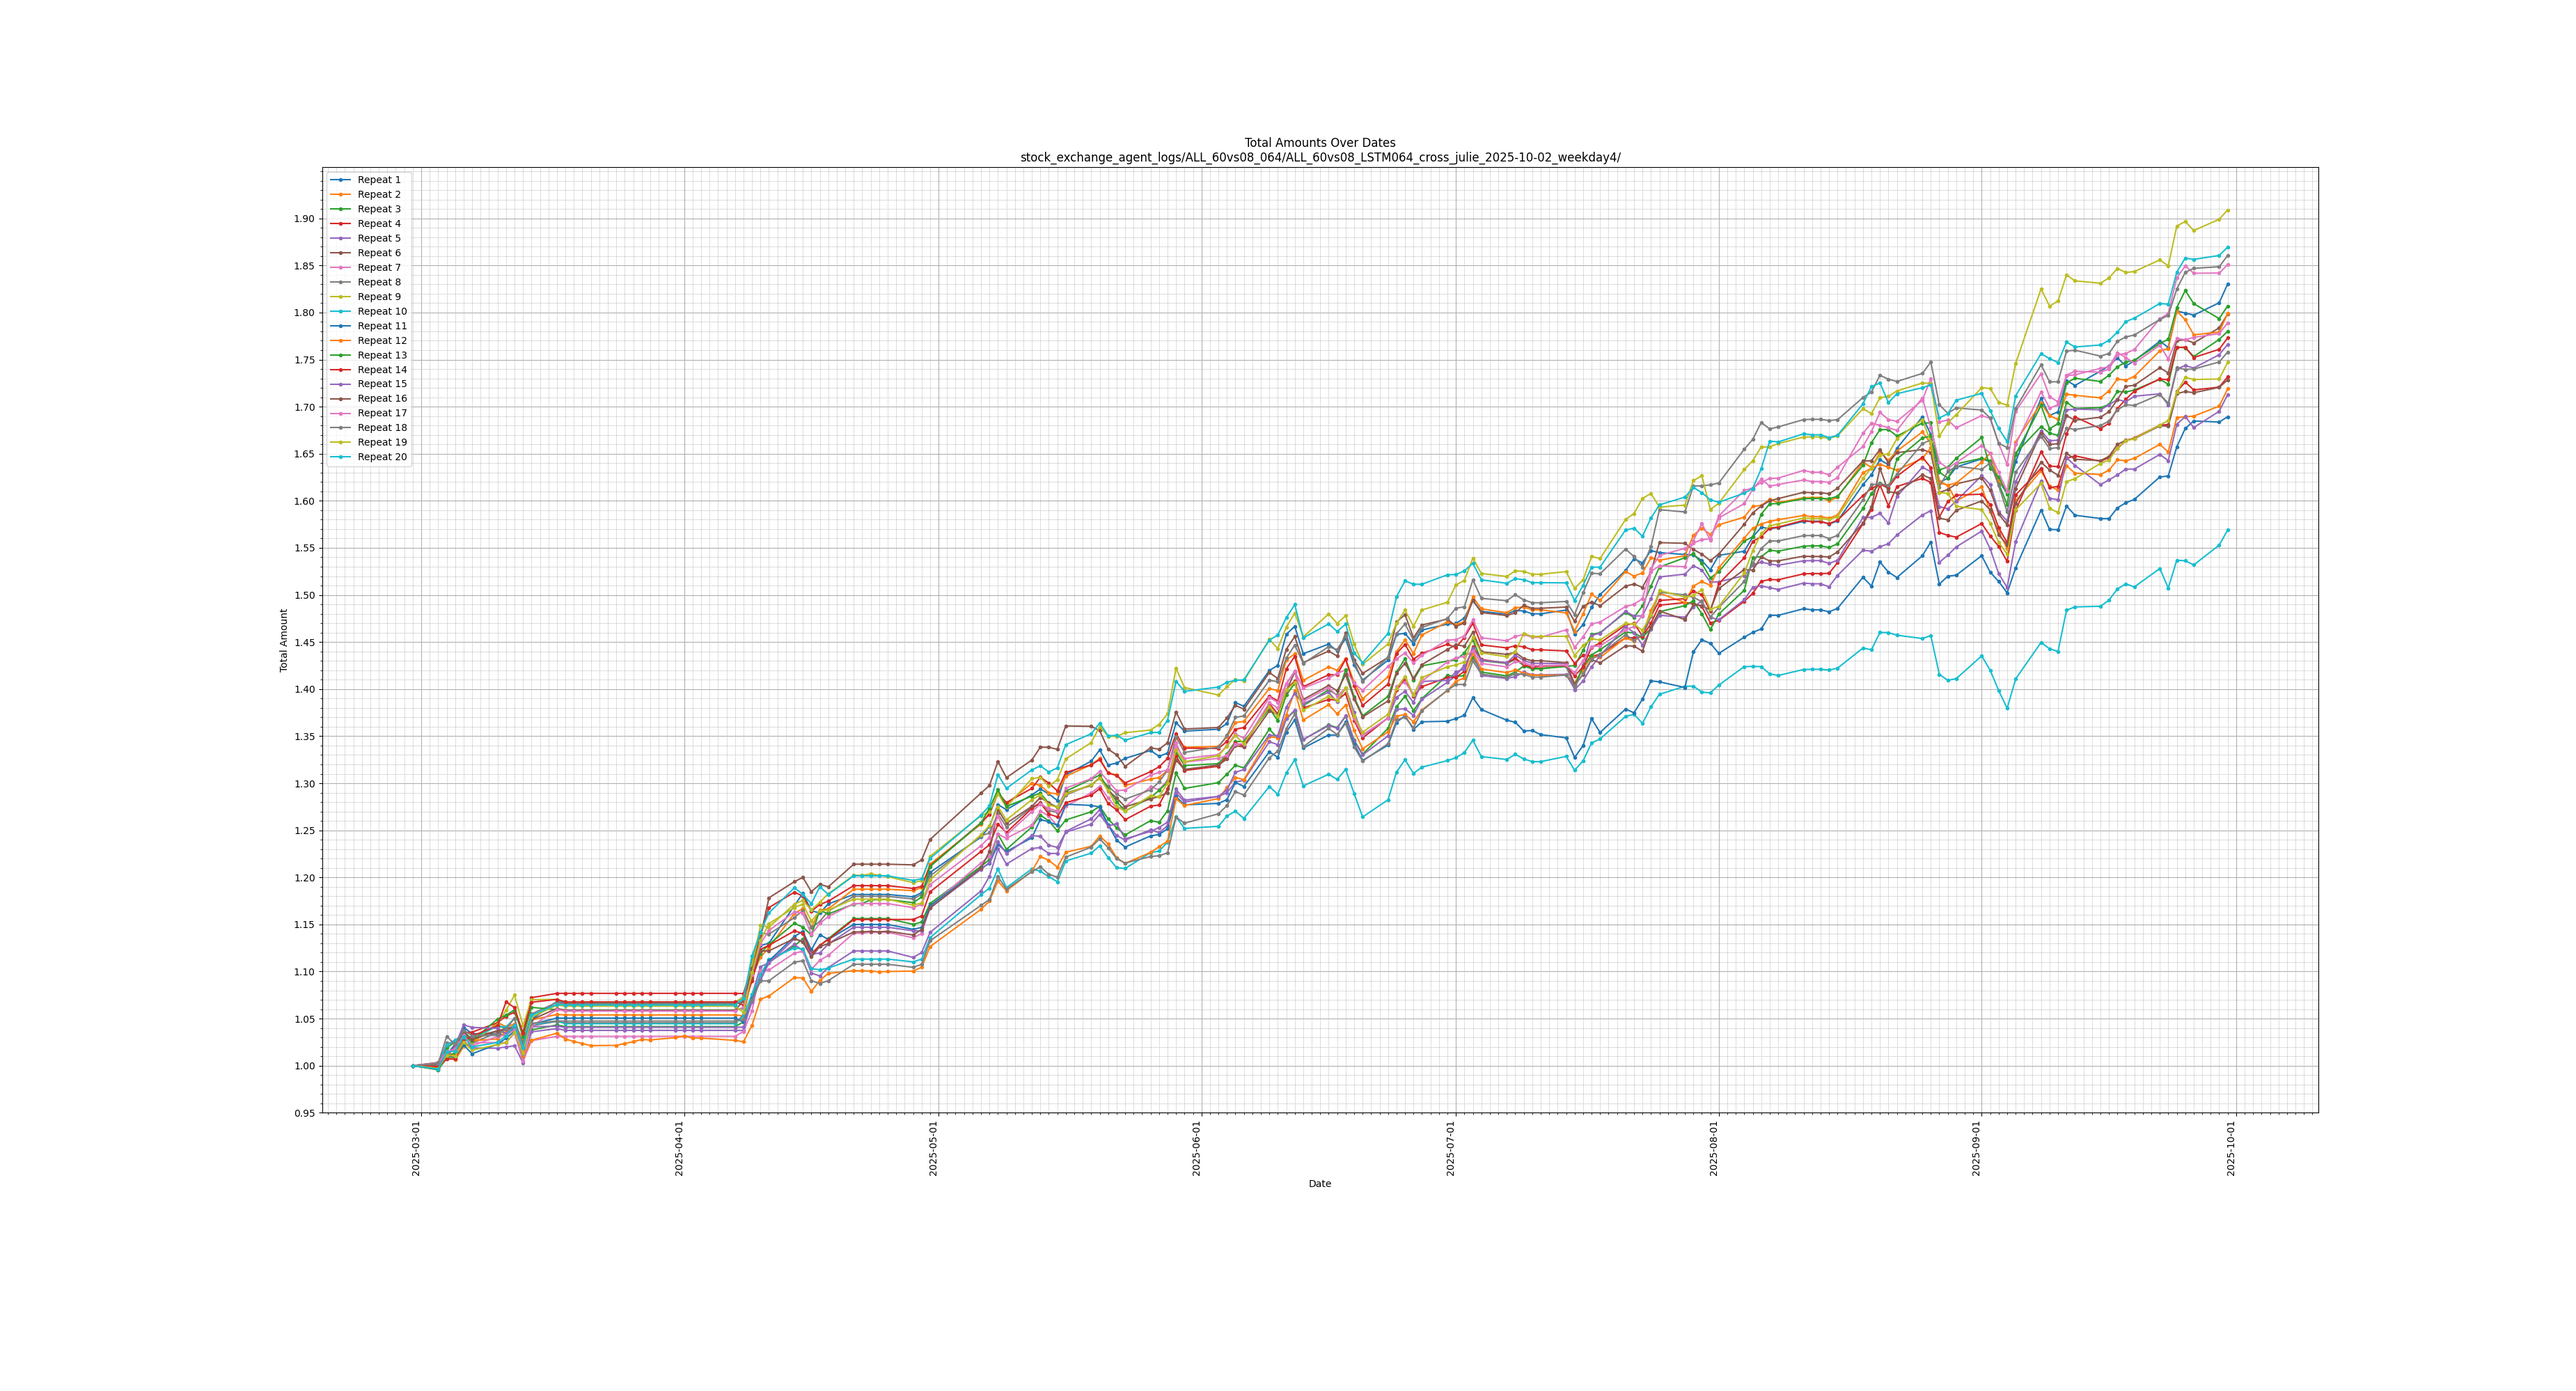
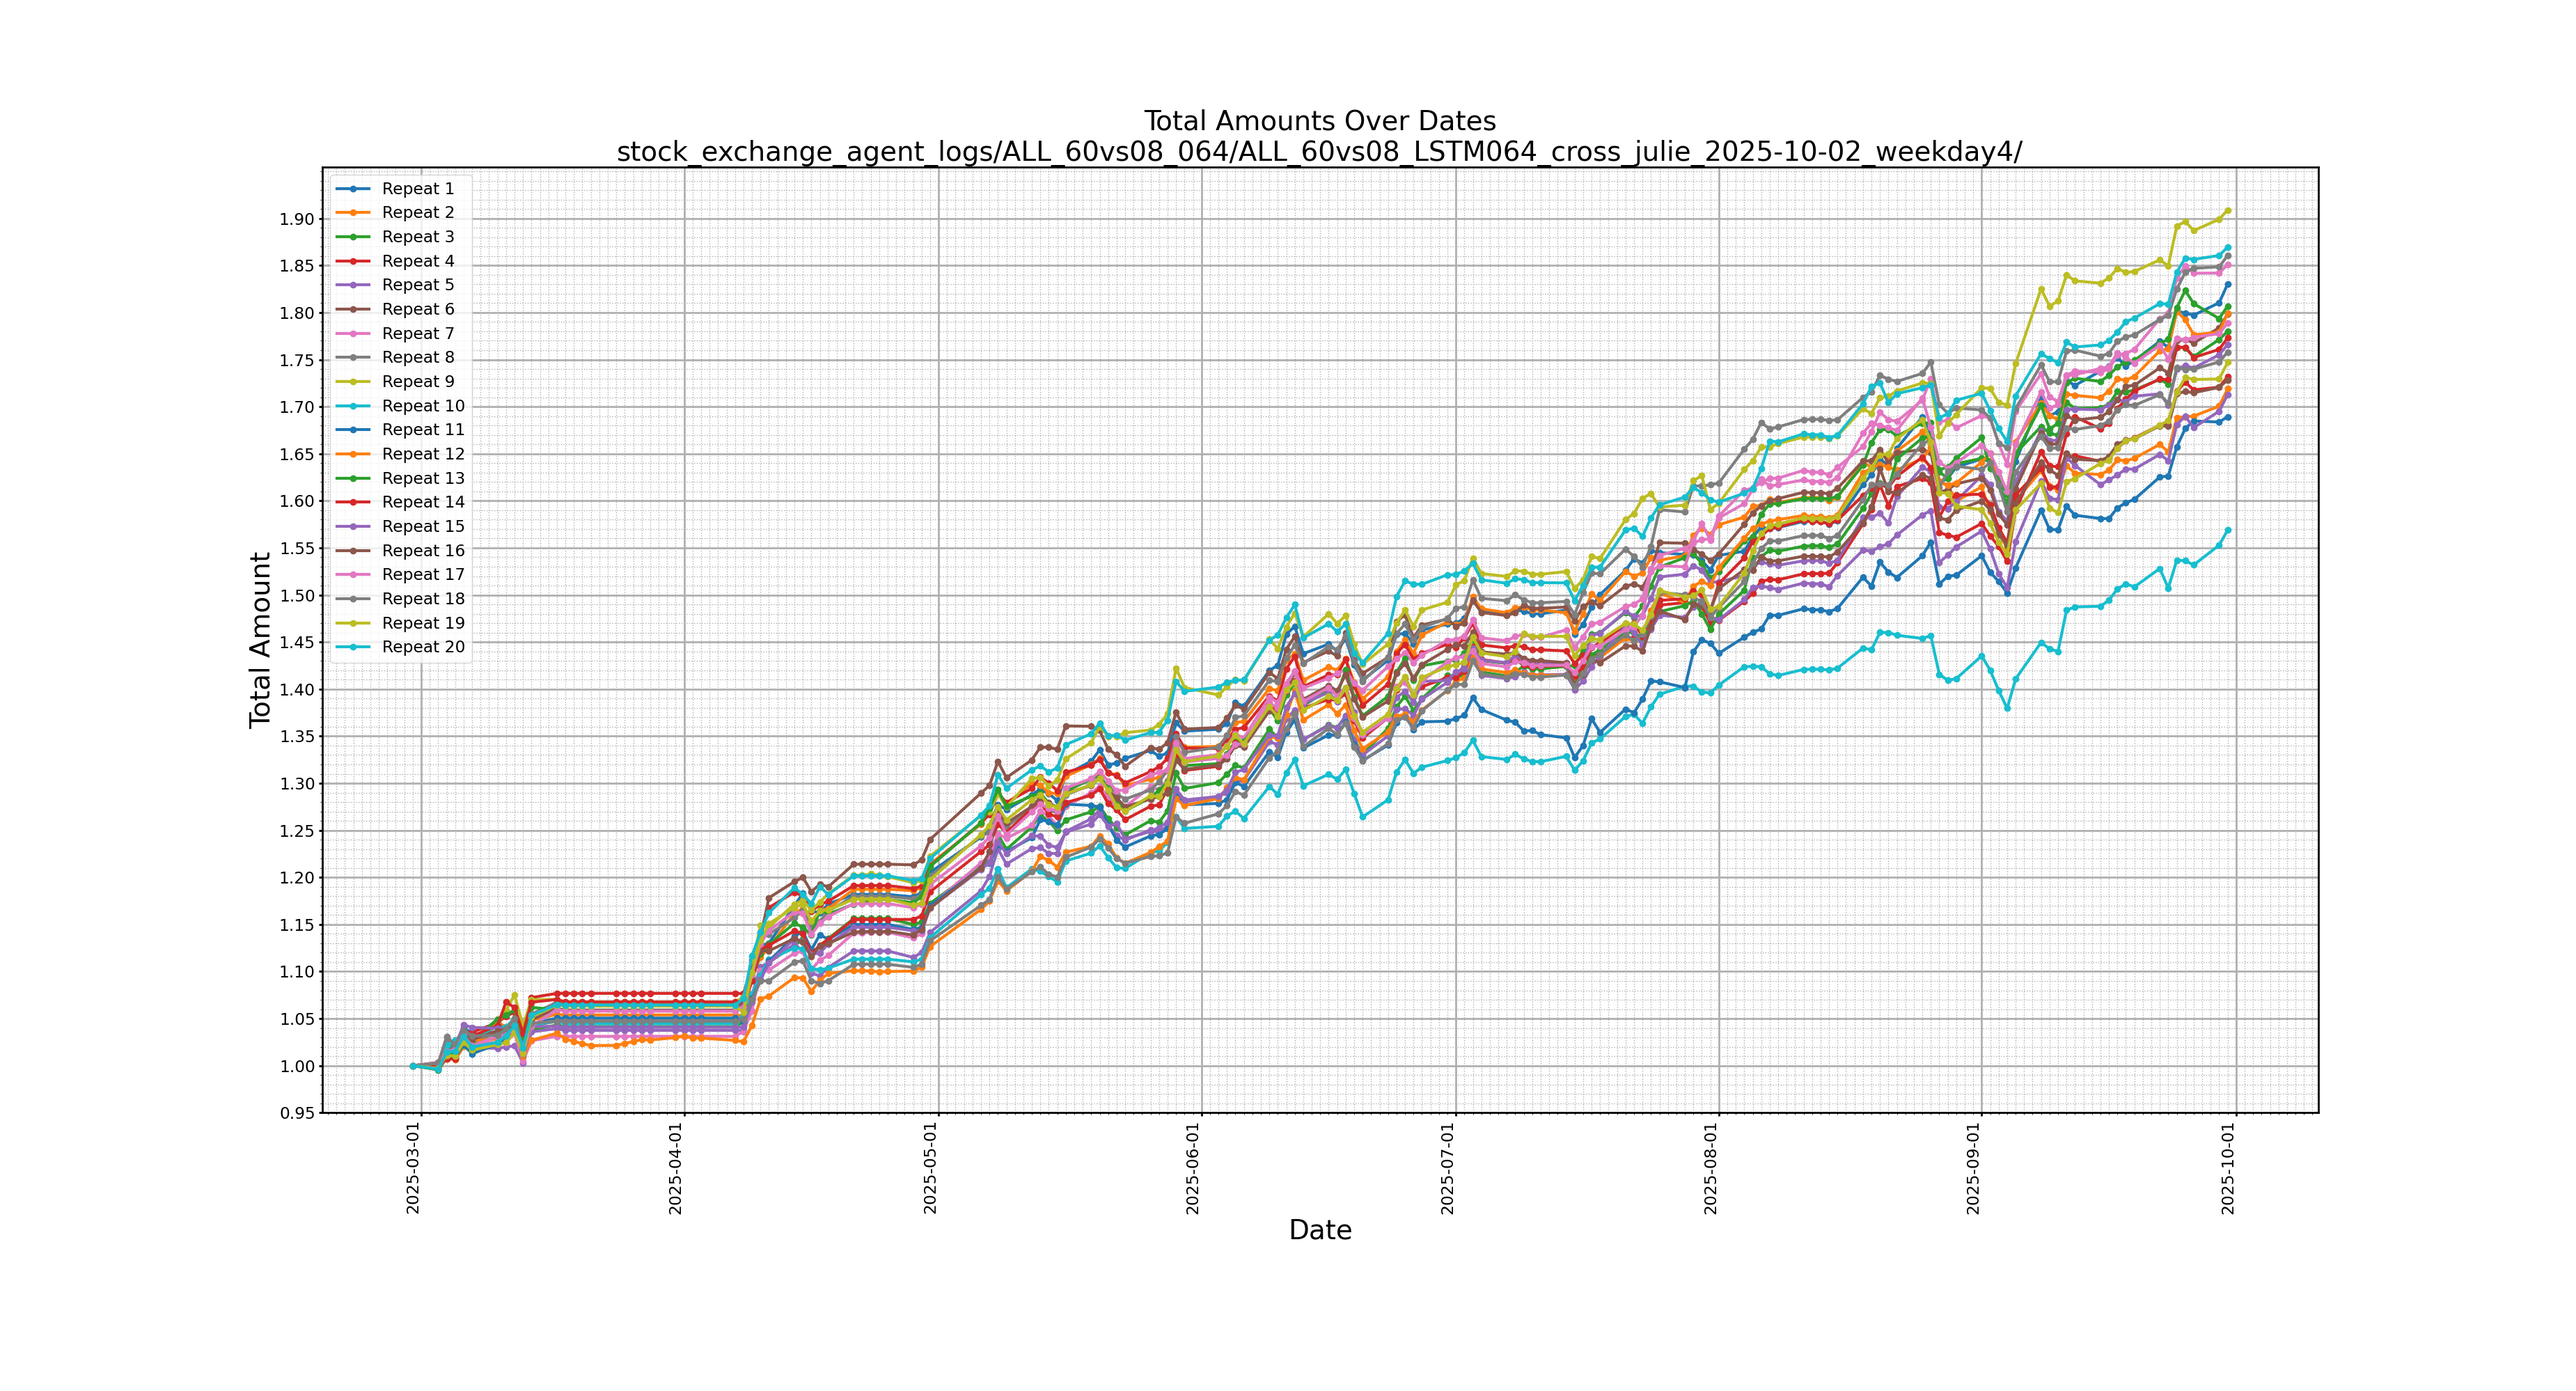
Improve readme and corresponding plot images

Changed region(s): [[0.0932, 0.1241, 0.9014, 0.7758], [0.2486, 0.0621, 0.777, 0.1241], [0.4973, 0.8689, 0.5284, 0.8999]]

diff --git a/readme.md b/readme.md
@@ -365,4 +365,10 @@ In this visualization example, 800 optimal checkpoints are collected as a model 
 
 #### 07.01.04 **Visualization showing which weekday is best for dynamic ensemble update**
 
+- Monday is weekday 0
+- Tuesday is weekday 1
+- Wednesday is weekday 2
+- Thursday is weekday 3
+- Friday is weekday 4
+
 ![alt_text](readme_images/visual_equity_curve_mean_log_weekdays.png)
